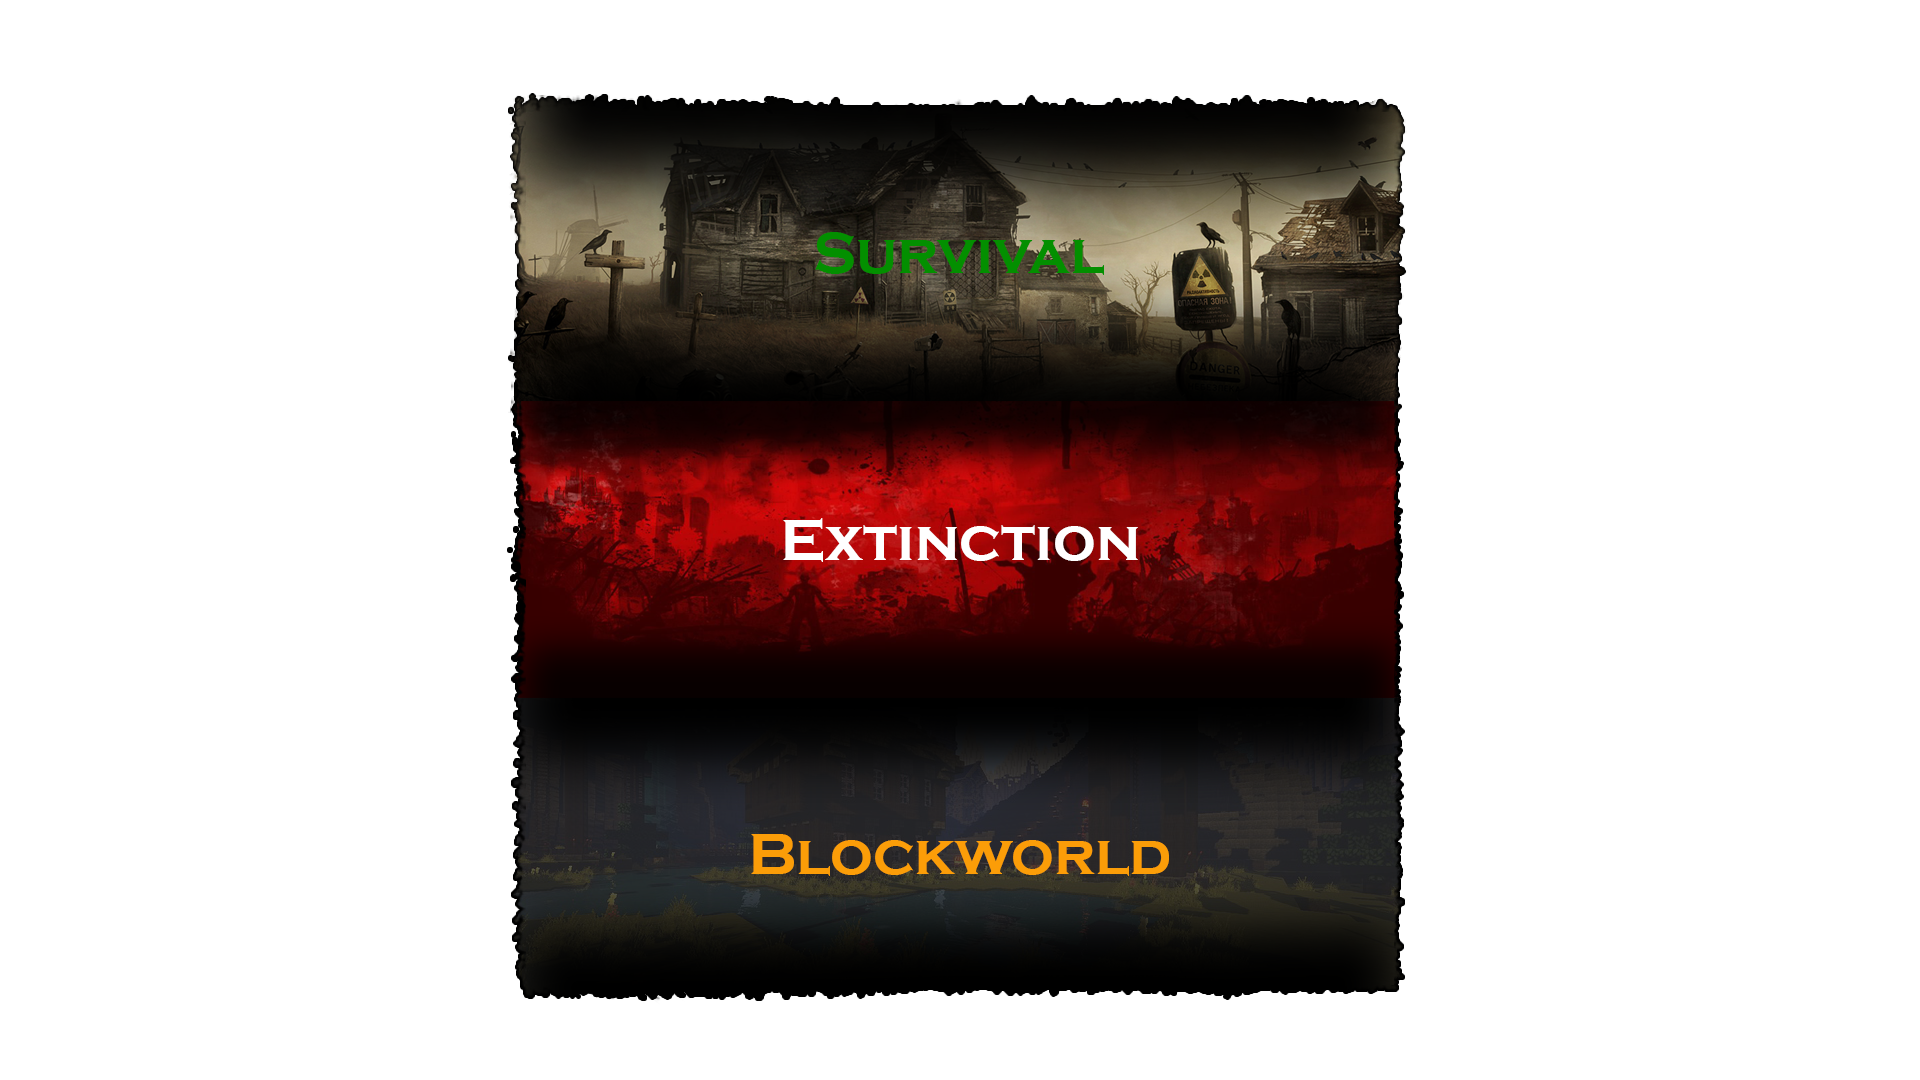
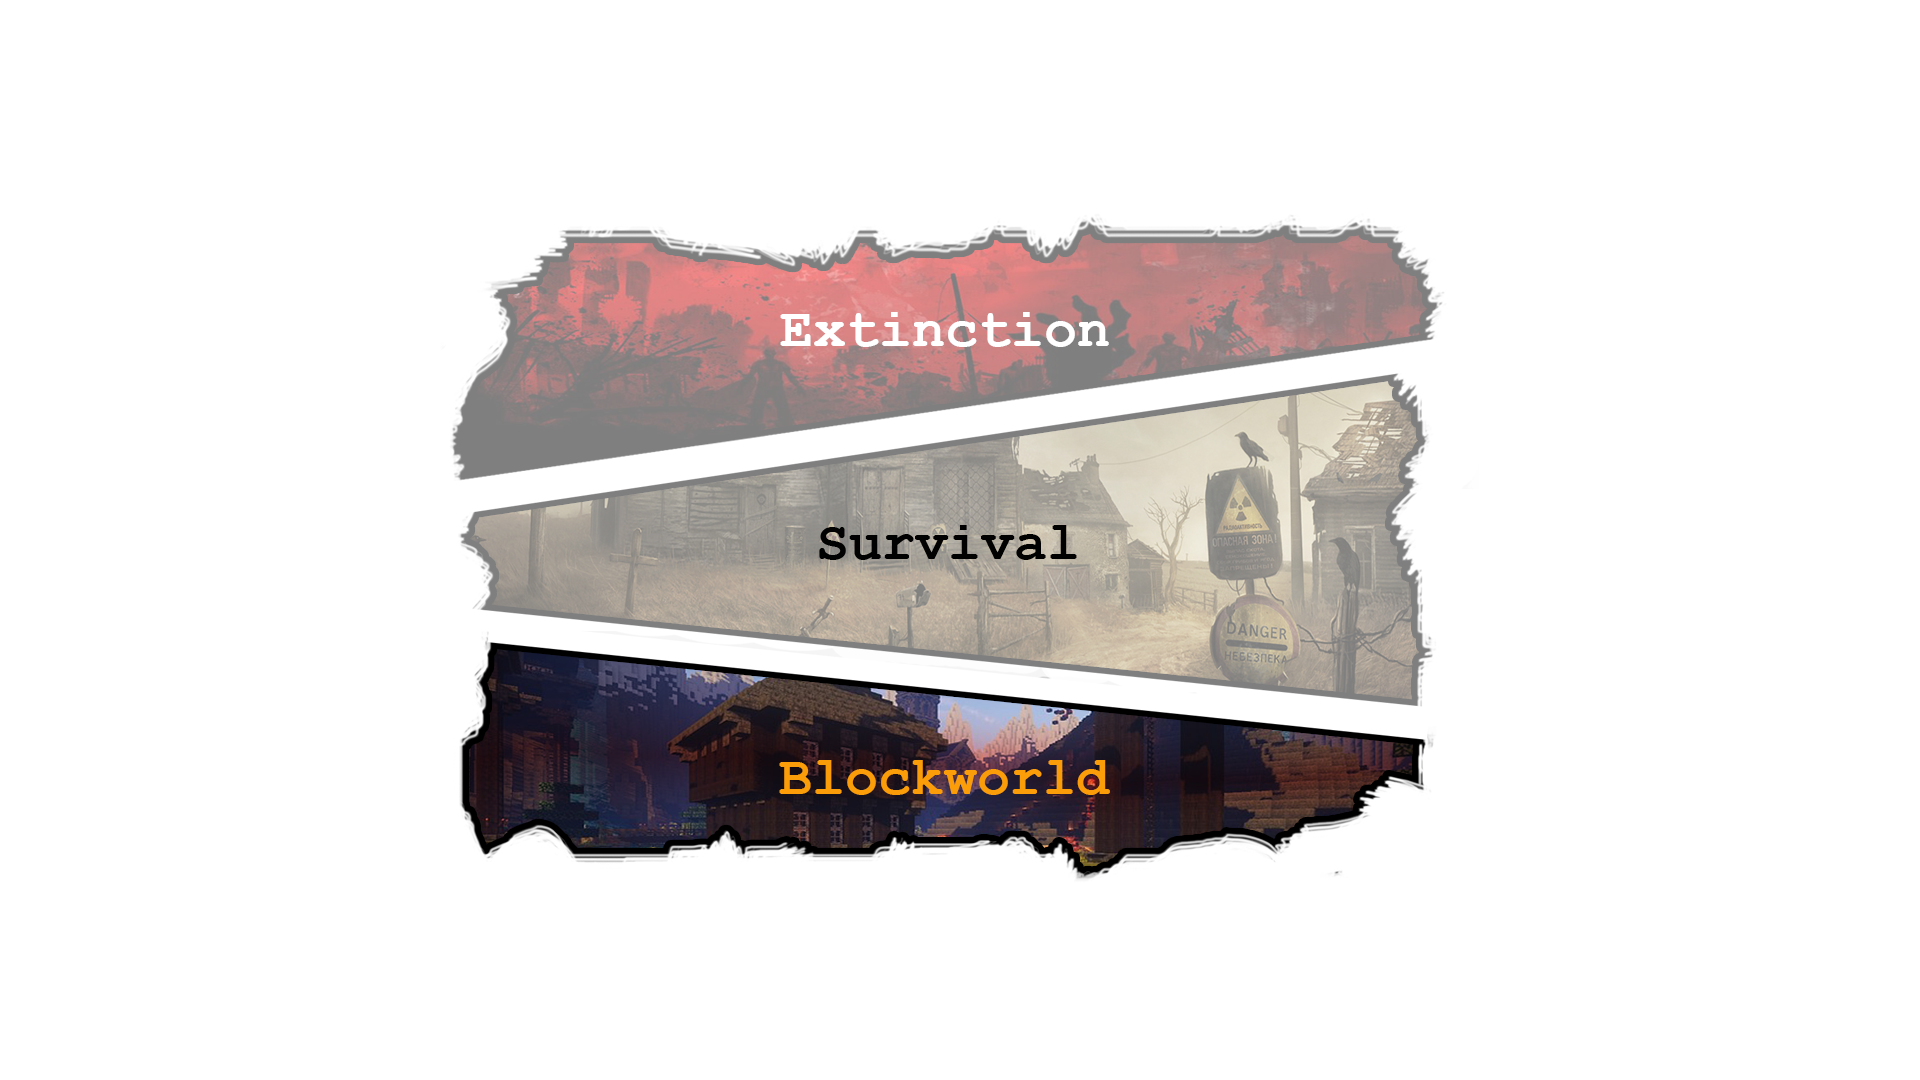
design fixes

diff --git a/Game/Menu/States/MainMenu.cs b/Game/Menu/States/MainMenu.cs
@@ -28,6 +28,7 @@ namespace Game.Menu.States
         private enum OptionsState
         {
             Continue,
+            About,
             Credits,
             Exit
         }
@@ -36,7 +37,7 @@ namespace Game.Menu.States
         {
             this.gameManager = gameManager;
             game = this.gameManager.Engine.Dependencies.Game;
-            controls = new ControlsConfig(0, 2, gameManager);
+            controls = new ControlsConfig(0, 3, gameManager);
             viewport = game.GraphicsDevice.Viewport;
             mainBackground = new MenuHelper.Background(gameManager.GameContent.Background, new Vector2(10, 10), 1.5f);
             fogBackground = new MenuHelper.Background(gameManager.GameContent.BackgroundFog, new Vector2(30, 30), 1);
@@ -47,27 +48,33 @@ namespace Game.Menu.States
         // in an ordered fashion.
         private void MainMenuDisplay()
         {
-            String textEscape = "CREDITS";
-            String textContinue = "PLAY IF YOU DARE";
-            String textExit = "TAKE THE EASY WAY OUT";
+            string textCredits = "CREDITS";
+            string textContinue = "PLAY IF YOU DARE";
+            string textAbout = "WHAT HAPPENED?";
+            string textExit = "TAKE THE EASY WAY OUT";
 
             sb.Draw(gameManager.GameContent.MainOptionsBackground, viewport.Bounds, Color.White);
             fogBackground.Draw(sb);
             sb.DrawString(gameManager.GameContent.MenuFont, textContinue, new Vector2(600, viewport.Height * 0.45f), Color.White);
-            sb.DrawString(gameManager.GameContent.MenuFont, textEscape, new Vector2(600, viewport.Height * 0.55f), Color.White);
-            sb.DrawString(gameManager.GameContent.MenuFont, textExit, new Vector2(600, viewport.Height * 0.65f), Color.White);
+            sb.DrawString(gameManager.GameContent.MenuFont, textAbout, new Vector2(600, viewport.Height * 0.55f), Color.White);
+            sb.DrawString(gameManager.GameContent.MenuFont, textCredits, new Vector2(600, viewport.Height * 0.65f), Color.White);
+            sb.DrawString(gameManager.GameContent.MenuFont, textExit, new Vector2(600, viewport.Height * 0.75f), Color.White);
 
             switch (currentPosition)
             {
                 case OptionsState.Continue:
                     sb.Draw(gameManager.GameContent.ButtonContinue, new Vector2(250, viewport.Height * 0.40f), Color.White);
                     break;
-                case OptionsState.Credits:
+                case OptionsState.About:
                     sb.Draw(gameManager.GameContent.ButtonContinue, new Vector2(250, viewport.Height * 0.50f), Color.White);
                     break;
-                case OptionsState.Exit:
+                case OptionsState.Credits:
                     sb.Draw(gameManager.GameContent.ButtonContinue, new Vector2(250, viewport.Height * 0.60f), Color.White);
                     break;
+                case OptionsState.Exit:
+                    sb.Draw(gameManager.GameContent.ButtonContinue, new Vector2(250, viewport.Height * 0.70f), Color.White);
+                    break;
+
             }
         }
 
@@ -106,6 +113,9 @@ namespace Game.Menu.States
             {
                 case OptionsState.Continue:
                     controls.ContinueButton(GameManager.GameState.GameModesMenu);
+                    break;
+                case OptionsState.About:
+                    controls.ContinueButton(GameManager.GameState.About);
                     break;
                 case OptionsState.Credits:
                     controls.ContinueButton(GameManager.GameState.Credits);

diff --git a/Game/Menu/States/About.cs b/Game/Menu/States/About.cs
@@ -1,0 +1,48 @@
+using System;
+using System.Collections.Generic;
+using System.Linq;
+using System.Text;
+using System.Threading.Tasks;
+using Game.Services;
+using Microsoft.Xna.Framework;
+using Microsoft.Xna.Framework.Graphics;
+using Microsoft.Xna.Framework.Input;
+using ZEngine.Wrappers;
+
+namespace Game.Menu.States
+{
+    /// <summary>
+    /// Pause game state, when the user want's to
+    /// pause the game.
+    /// </summary>
+    class AboutMenu : IMenu
+    {
+        private readonly GameManager gameManager;
+        private readonly ControlsConfig controls;
+        private Viewport viewport;
+        private SpriteBatch sb = GameDependencies.Instance.SpriteBatch;
+
+        public AboutMenu(GameManager gameManager)
+        {
+            this.gameManager = gameManager;
+            controls = new ControlsConfig(gameManager);
+            viewport = this.gameManager.Engine.Dependencies.GraphicsDeviceManager.GraphicsDevice.Viewport;
+        }
+
+        // drawing the menu background.
+        public void Draw(GameTime gameTime, SpriteBatch spriteBatch)
+        {
+            sb.Begin();
+            MenuHelper.DrawBackgroundWithScaling(spriteBatch, gameManager.GameContent, 0.0001f);
+            sb.Draw(gameManager.GameContent.AboutBackground, viewport.Bounds, Color.White);
+            sb.End();
+        }
+        // A pause button that goes to the pause game state,
+        // but if the current game state is the pause state
+        // then we go back to the previous state.
+        public void Update(GameTime gameTime)
+        {
+            controls.GoBackButton();
+        }
+    }
+}

diff --git a/Game/Menu/GameManager.cs b/Game/Menu/GameManager.cs
@@ -43,6 +43,7 @@ namespace Game
         private IMenu gameIntro;
         private IMenu survivalGame;
         private IMenu pausedMenu;
+        private IMenu aboutMenu;
         private IMenu multiplayerMenu;
 
         // Game states
@@ -56,7 +57,8 @@ namespace Game
             PlaySurvivalGame,
             Quit,
             Credits,
-            Paused
+            Paused,
+            About
         };
 
         public GameManager(FullZengineBundle gameBundle)
@@ -76,6 +78,7 @@ namespace Game
             survivalGame = new SurvivalGame(this);
             pausedMenu = new PausedMenu(this);
             multiplayerMenu = new MultiplayerMenu(this);
+            aboutMenu = new AboutMenu(this);
 
         }
 
@@ -121,6 +124,9 @@ namespace Game
                 case GameState.MultiplayerMenu:
                     multiplayerMenu.Draw(gameTime, sb);
                     break;
+                case GameState.About:
+                    aboutMenu.Draw(gameTime, sb);
+                    break;
             }
         }
 
@@ -164,6 +170,9 @@ namespace Game
                     break;
                 case GameState.MultiplayerMenu:
                     multiplayerMenu.Update(gameTime);
+                    break;
+                case GameState.About:
+                    aboutMenu.Update(gameTime);
                     break;
             }
         }

diff --git a/Game/Menu/States/GameModeMenu.cs b/Game/Menu/States/GameModeMenu.cs
@@ -15,8 +15,8 @@ namespace Game.Menu.States
 
         private enum OptionsState
         {
-            Survival,
             Extinction,
+            Survival,
             Blockworld,
             Exit
         }
@@ -38,11 +38,11 @@ namespace Game.Menu.States
             {
                 case OptionsState.Survival:
                     sb.Draw(gameManager.GameContent.GameModeHiglightSurvival, viewport.Bounds, Color.White);
-                    sb.Draw(gameManager.GameContent.ButtonContinue, new Vector2(250, viewport.Height * 0.20f), Color.White);
+                    sb.Draw(gameManager.GameContent.ButtonContinue, new Vector2(250, viewport.Height * 0.45f), Color.White);
                     break;
                 case OptionsState.Extinction:
                     sb.Draw(gameManager.GameContent.GameModeHiglightExtinction, viewport.Bounds, Color.White);
-                    sb.Draw(gameManager.GameContent.ButtonContinue, new Vector2(250, viewport.Height * 0.45f), Color.White);
+                    sb.Draw(gameManager.GameContent.ButtonContinue, new Vector2(250, viewport.Height * 0.20f), Color.White);
                     break;
                 case OptionsState.Blockworld:
                     sb.Draw(gameManager.GameContent.GameModeHiglightBlockworld, viewport.Bounds, Color.White);

diff --git a/Game/GameContent.cs b/Game/GameContent.cs
@@ -41,6 +41,7 @@ namespace Game
         public Texture2D ButtonContinue;
         public Texture2D ButtonBack;
         public Texture2D CharacterBackground;
+        public Texture2D AboutBackground;
 
         // Continue
         // Go back
@@ -77,6 +78,8 @@ namespace Game
 
             // Pause
             PauseBackground = game.Content.Load<Texture2D>("Images/Menu/paused");
+            // About
+            AboutBackground = game.Content.Load<Texture2D>("Images/Menu/about");
 
             CharacterBackground = game.Content.Load<Texture2D>("Images/zombieCharacter");
             ButtonEsc = game.Content.Load<Texture2D>("Images/Keyboard/esc");
@@ -99,5 +102,7 @@ namespace Game
             }
 
         }
+
+        
     }
 }
